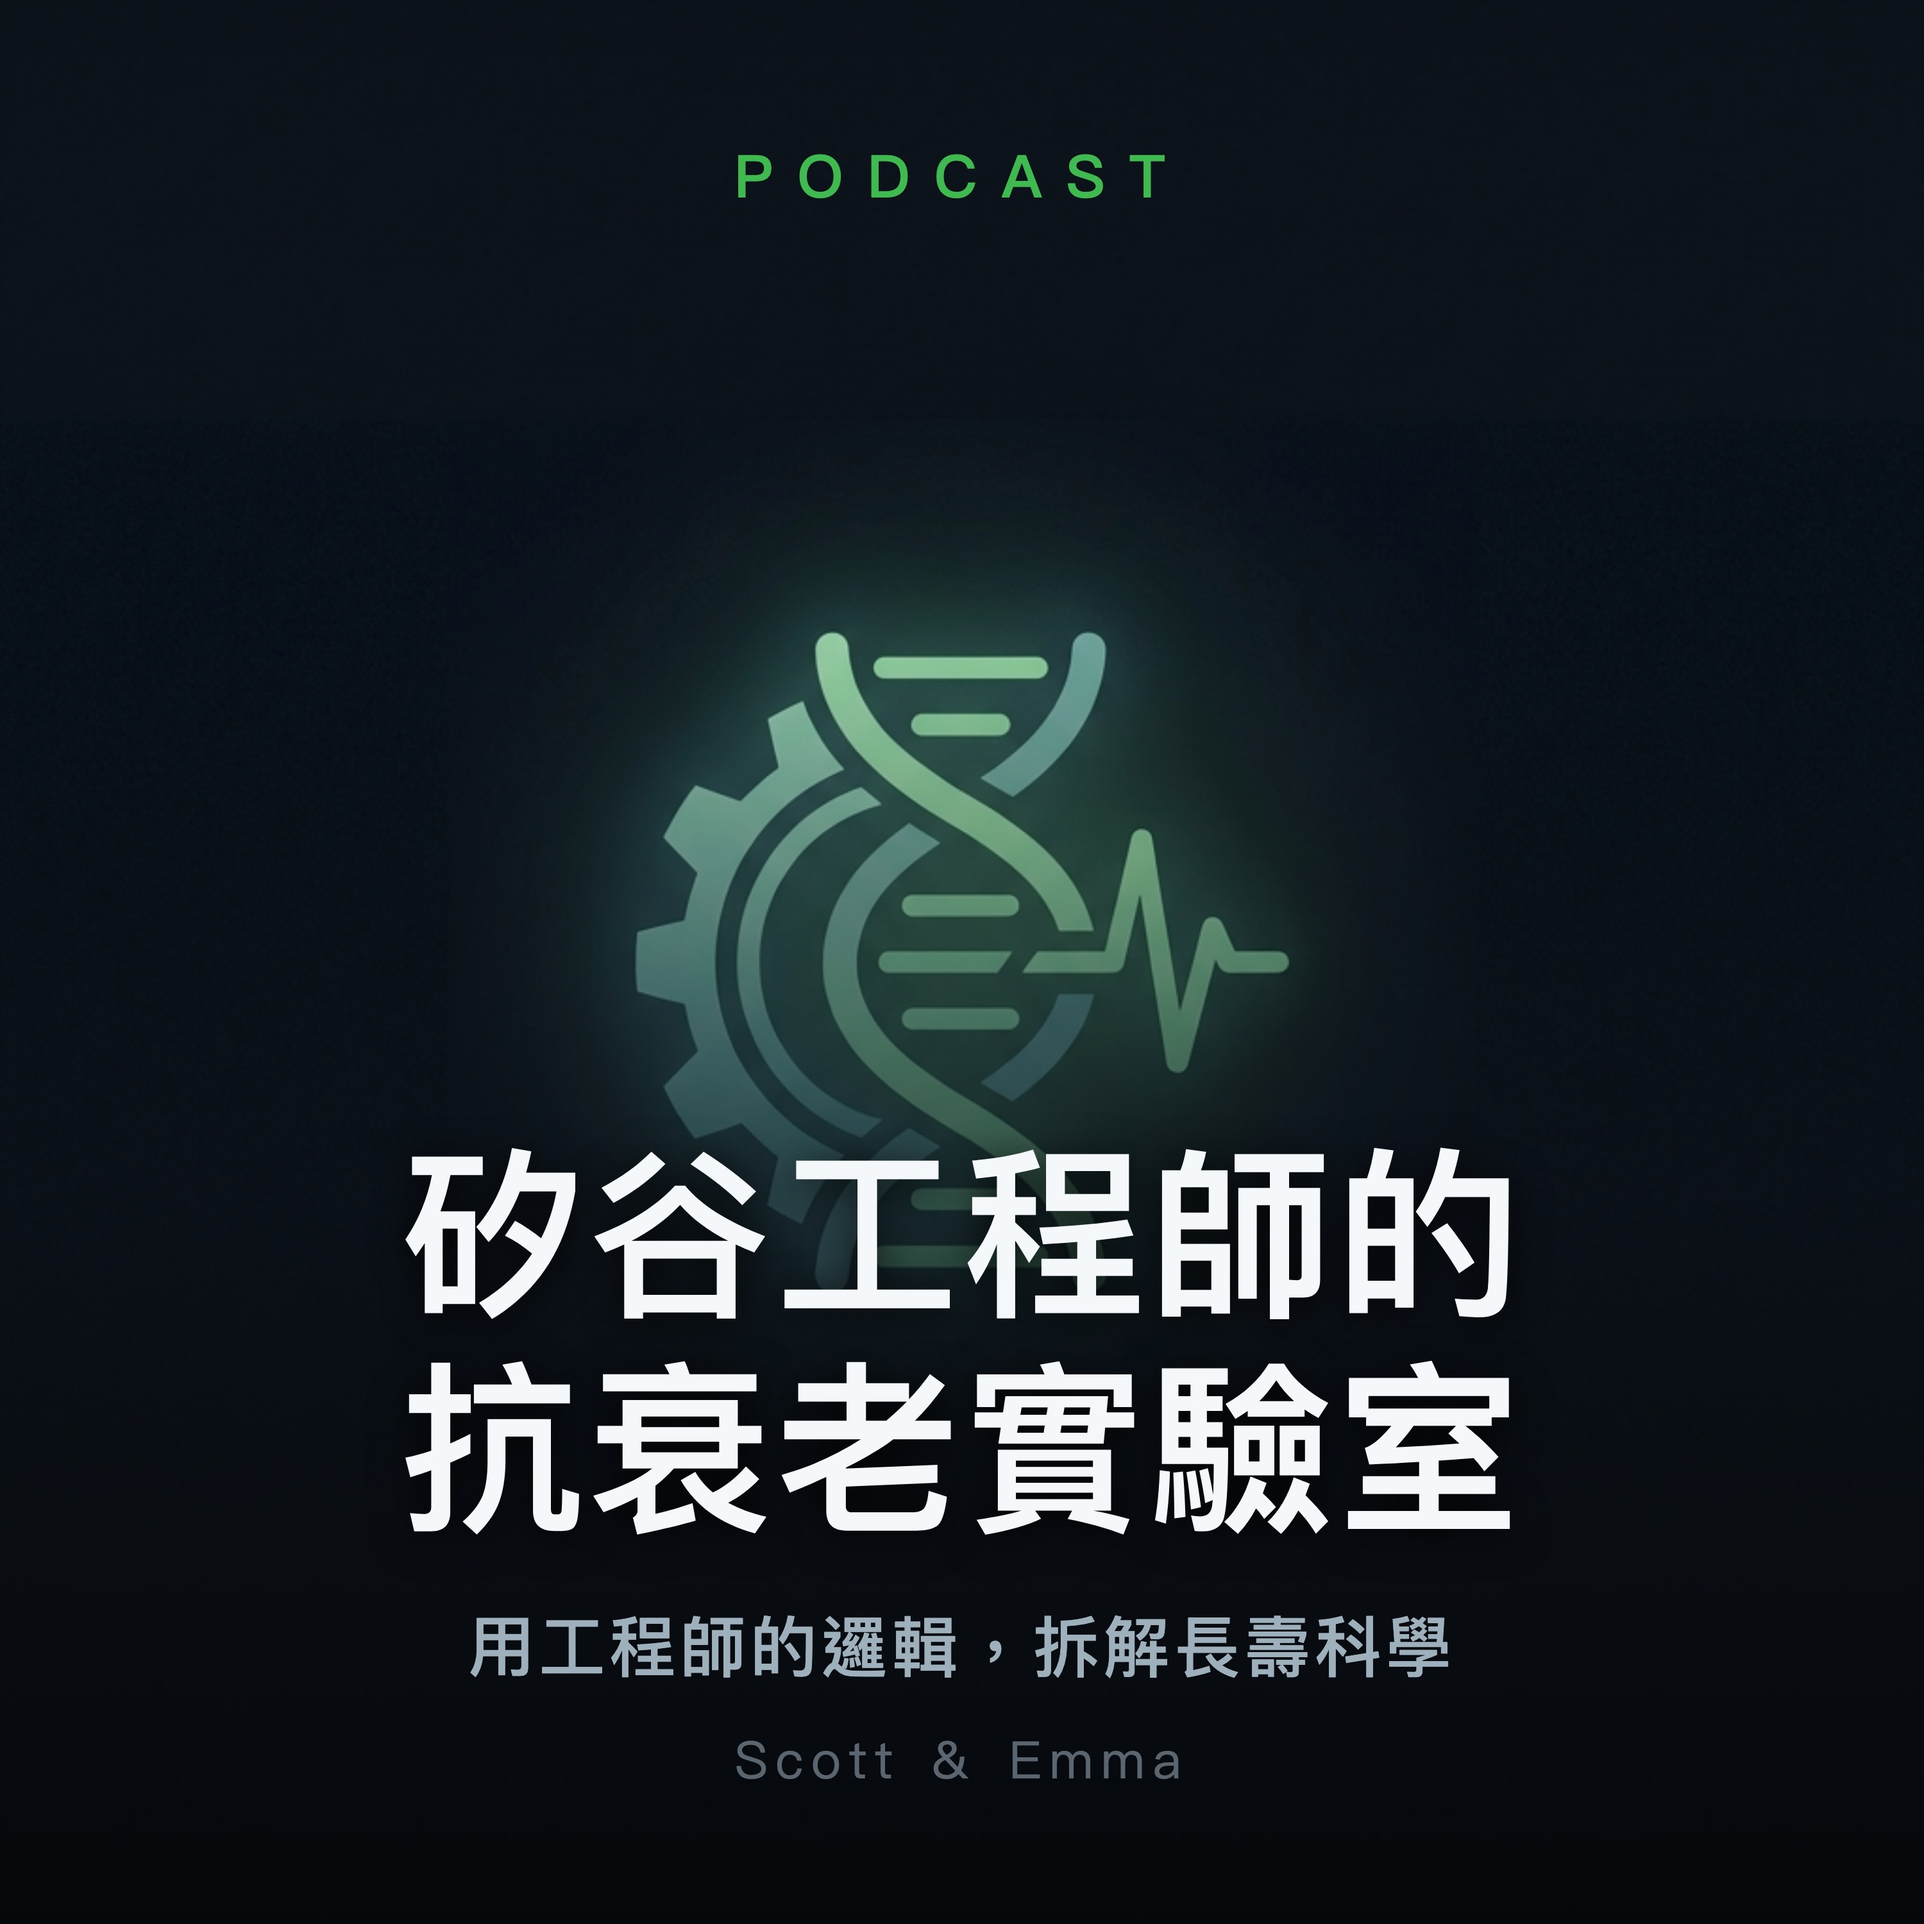
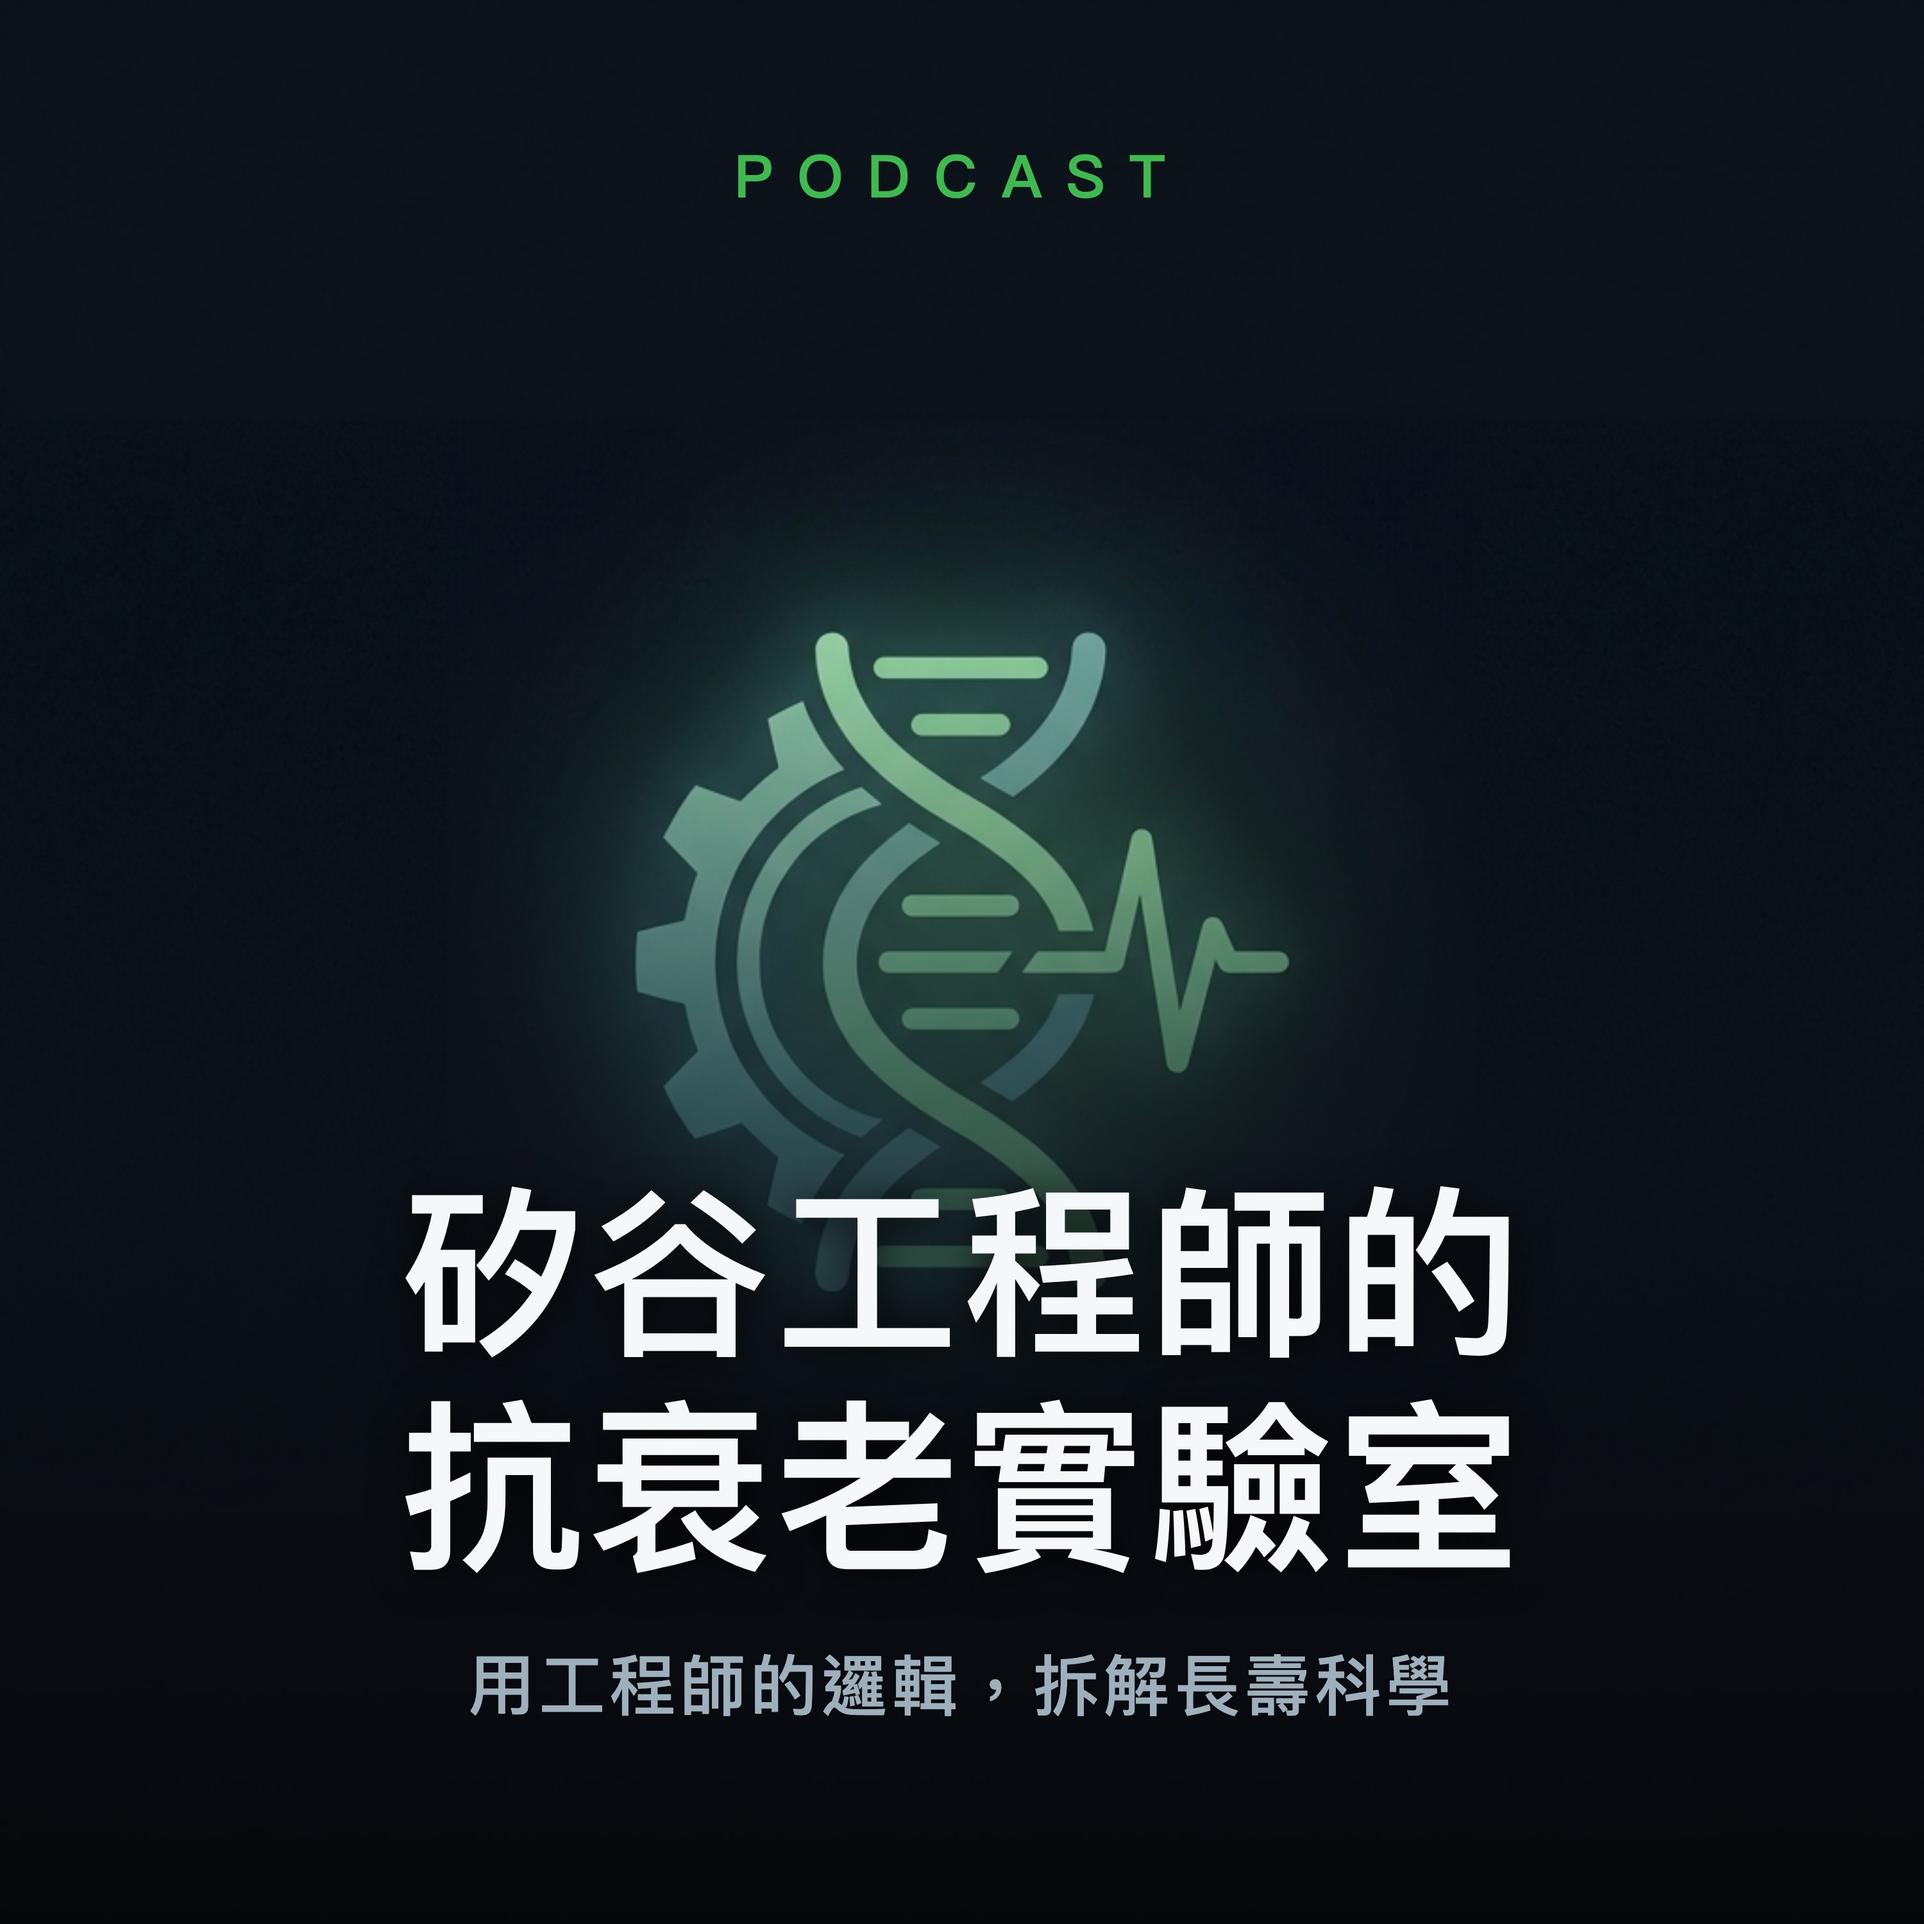
podcast: 移除 Scott & Emma 掛名、更新封面

Changed region(s): [[0.186, 0.589, 0.806, 0.93]]

diff --git a/podcast/index.html b/podcast/index.html
@@ -27,7 +27,7 @@
 <body>
   <img class="cover" src="cover.jpg" alt="節目封面">
   <h1>矽谷工程師的抗衰老實驗室</h1>
-  <div class="sub">Scott ＆ Emma · 用工程師的邏輯，拆解長壽科學</div>
+  <div class="sub">用工程師的邏輯，拆解長壽科學</div>
   <div class="desc">用第一性原理和工程師的類比，把血糖、膽固醇、脂肪酸、纖維、肌力訓練、皮膚抗老這些長壽科學，一集一個主題講到你徹底聽懂。不灌雞湯、不賣補品，只給你能自己判斷的核心原理。</div>
   <div class="subs">
     <a href="feed.xml">RSS</a>
